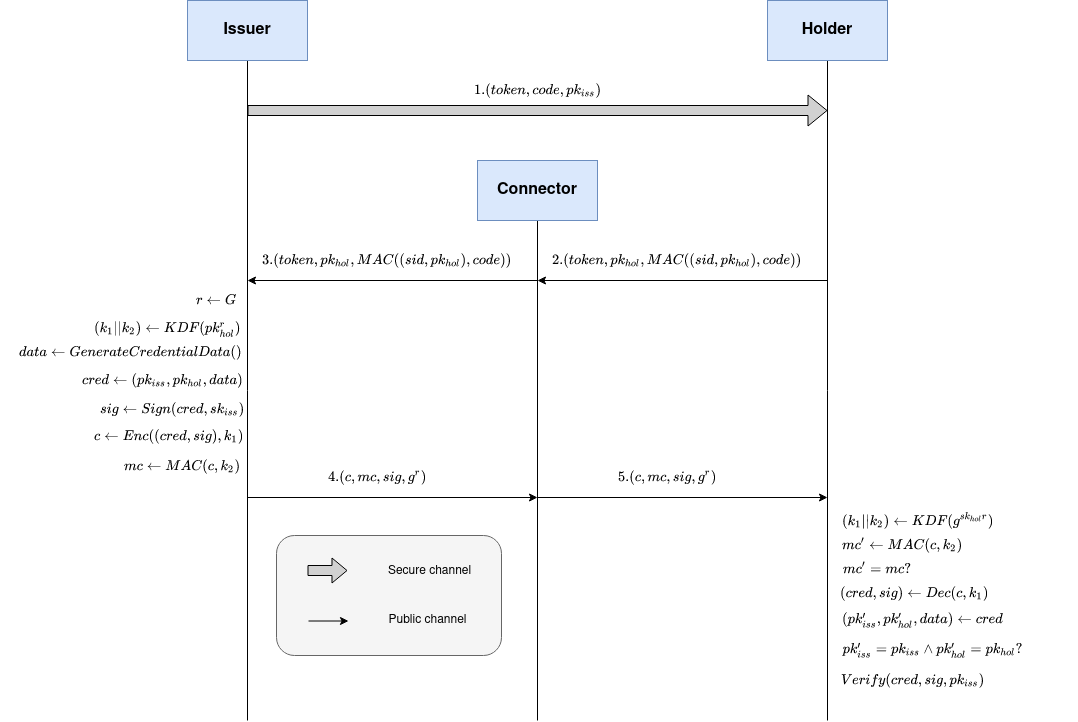
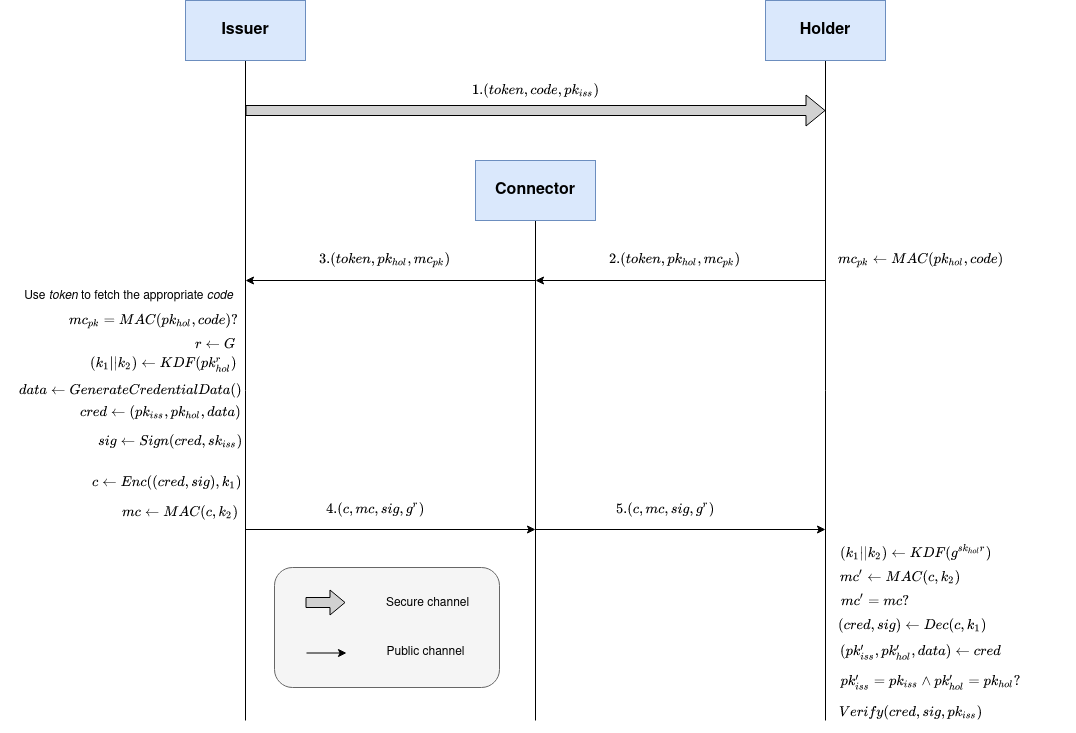
Addressing comments on PR.

diff --git a/prism-backend/research/article.tex b/prism-backend/research/article.tex
@@ -201,8 +201,8 @@ holders receive new credentials from issuers, in a secure -- yet convenient --
 manner. We describe a protocol for this purpose.  At the moment, we require
 that issuer and prospective holder can perform a one-time physical interaction
 with each other or, alternatively, that they have a secure channel at their
-avail (although possibly cumbersome to use, hence we only require to use it
-once).
+availability (although possibly cumbersome to use, hence we only require to use
+it once).
 
 In a nutshell, the proposed protocol (see \figref{fig:e2econnector}) is composed
 of two phases. In the first phase, the issuer shares a QR code with the holder.
@@ -211,8 +211,8 @@ value ($code$, in \figref{fig:e2econnector}), and a session identifier ($token$,
 in \figref{fig:e2econnector}). This exchange takes place through a secure (i.e.,
 confidential and authenticated) channel, such as physical exchange. Probably
 immediately, although also possibly at a later point in time, the prospective
-holder sends back her own public key (or, alternatively, her DID) and the
-session identifier, all authenticated with a MAC, where we use the random value
+holder sends back her own public key (or, alternatively, her DID) authenticated
+with a MAC, where we use the random value
 in the QR code as secret key. The issuer uses the session identifier to locate
 the corresponding session and, now that it received in an authenticated manner
 the public key of the holder, can leverage hybrid encryption techniques to
@@ -228,7 +228,7 @@ sends through the ECIES-secured channel. Note that we could involve the random
 value shared via the QR code for this. But that would force us to re-execute the
 first phase of the protocol even when the QR code is compromised after having
 completed the first phase of the protocol. Digital signatures using the issuer's
-DID prevent this.
+keypair prevent this.
 
 Note that we are combining signature and encryption (plus, the MAC-based
 authentication natively provided by ECIES). This places us in the context put
